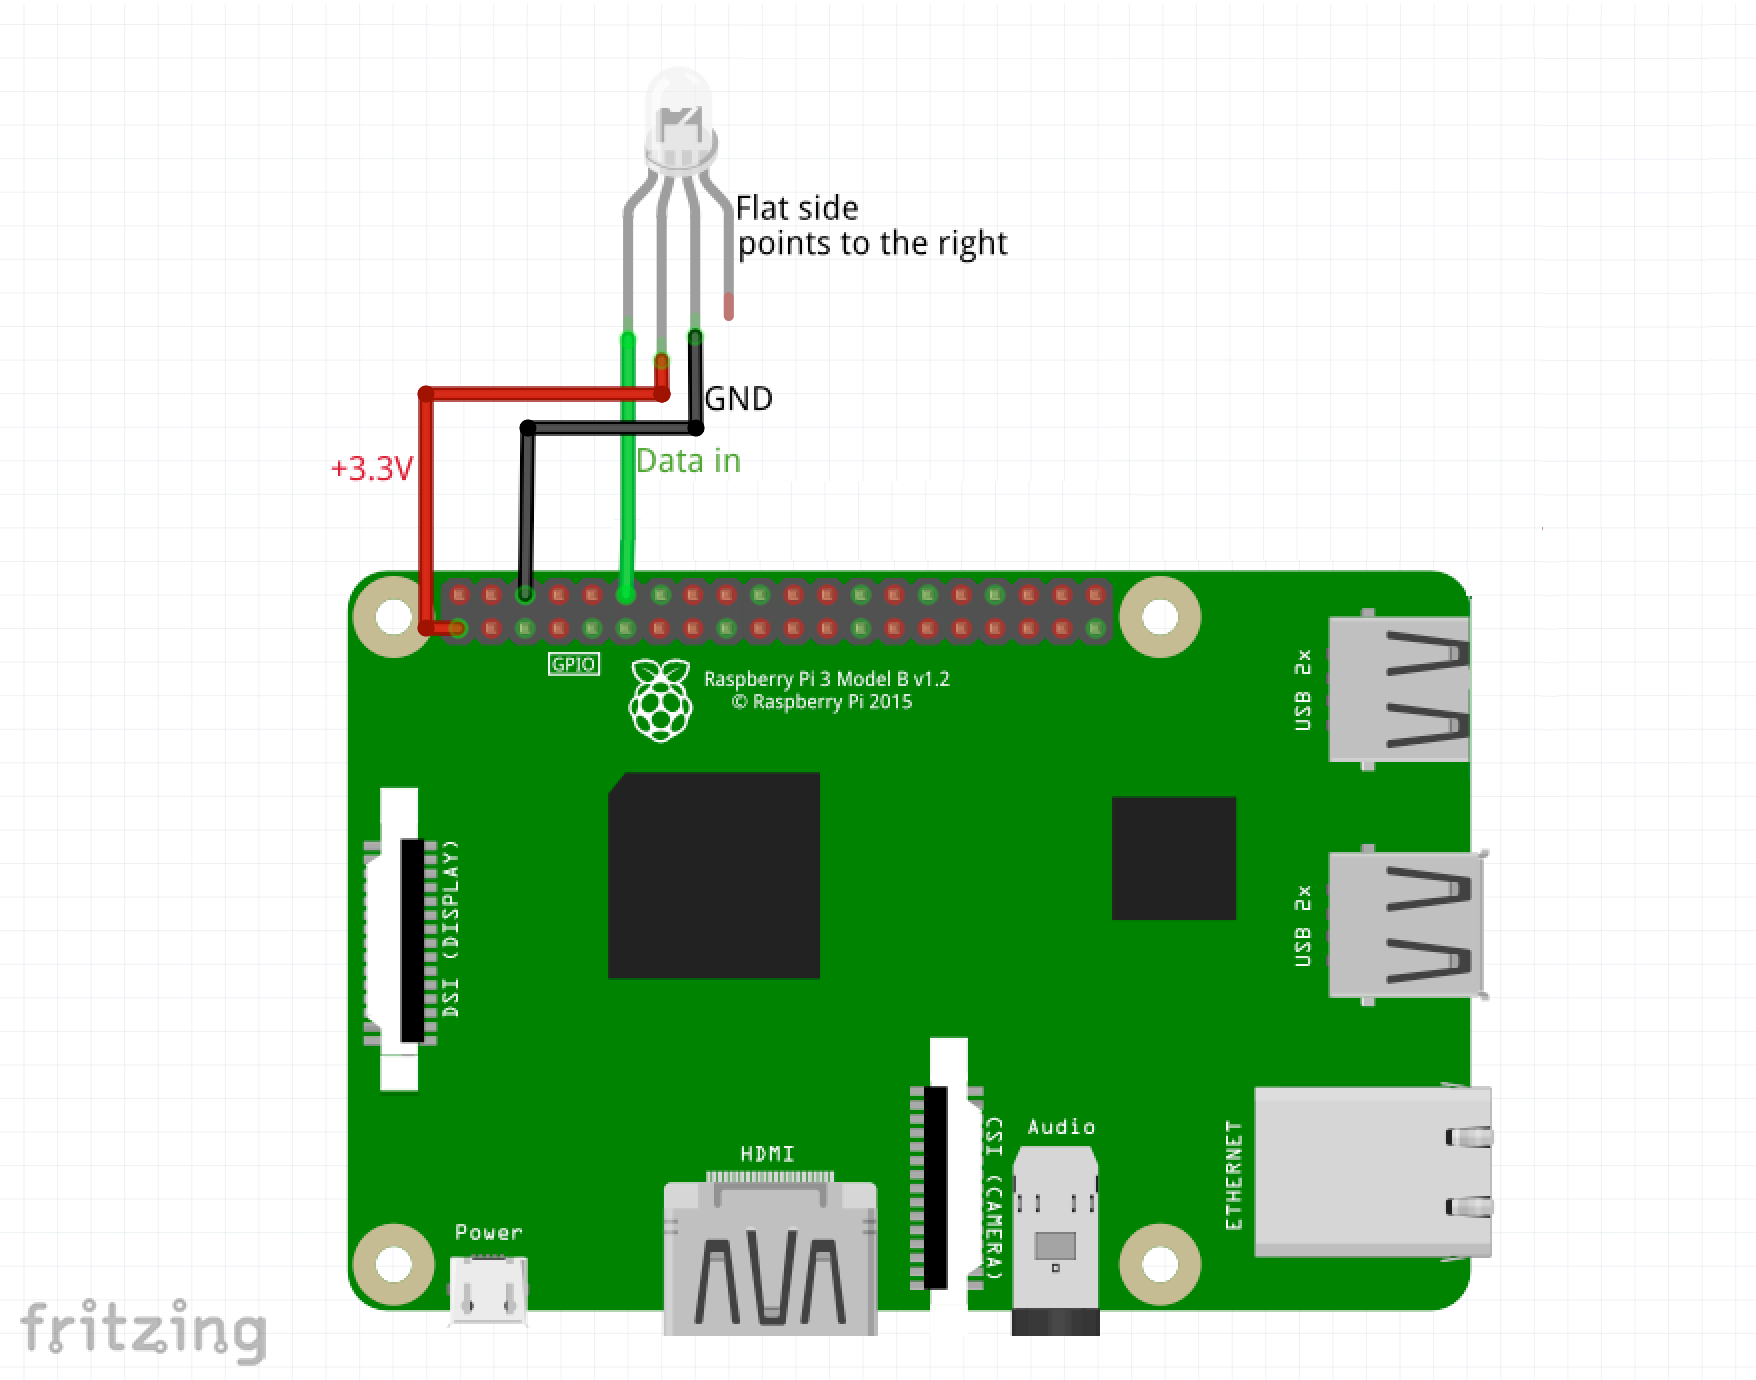
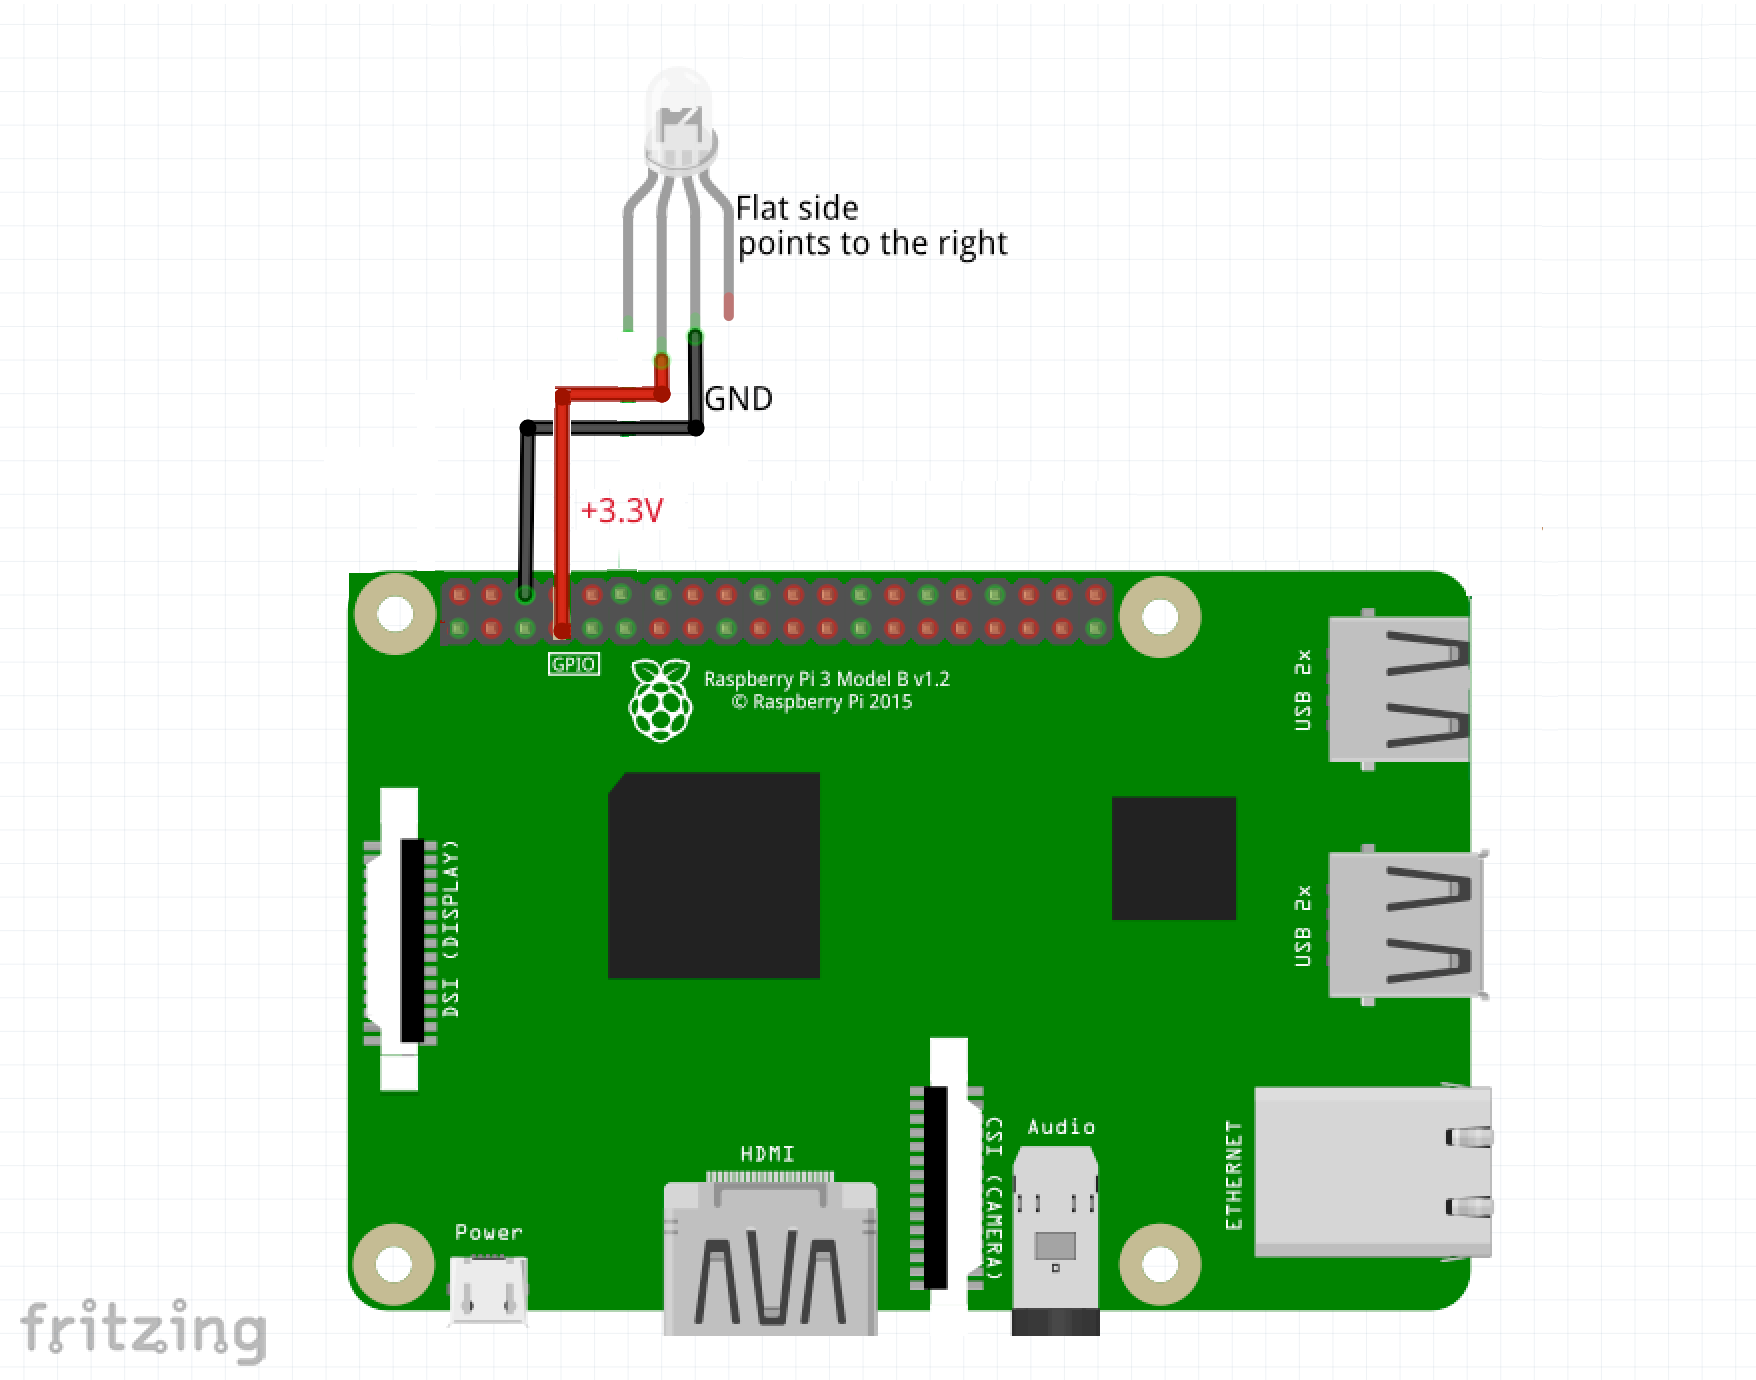
INTU-1199 | reverting the changes  made to raspy pins

Changed region(s): [[0.1845, 0.2493, 0.4305, 0.4674]]

diff --git a/workshops/Workshop5–RunningIntuOnARaspberryPi/lab-docs/README.md b/workshops/Workshop5–RunningIntuOnARaspberryPi/lab-docs/README.md
@@ -251,7 +251,7 @@ mkdir workshop_five
 		virtual bool Abort();
 
 		//! Construction
-		WorkshopFiveGesture() : m_PinNumber( 16 ), m_bWiredPi( false )
+		WorkshopFiveGesture() : m_PinNumber( 7 ), m_bWiredPi( false )
 		{}
 
 	private:
@@ -444,7 +444,7 @@ As part of this lab we will be using the Tower Pro SG90 micoservo. You can see t
 		virtual bool Execute( GestureDelegate a_Callback, const ParamsMap & a_Params );
 		virtual bool Abort();
 		//! Construction
-		RaspiMoveJointGesture() : m_PinNumber( 11 ), m_bWiredPi( false ), m_ArmLowPoint(0), m_ArmHighPoint(40)
+		RaspiMoveJointGesture() : m_PinNumber( 0 ), m_bWiredPi( false ), m_ArmLowPoint(0), m_ArmHighPoint(40)
 		{}
 	private:
 		//! Data
